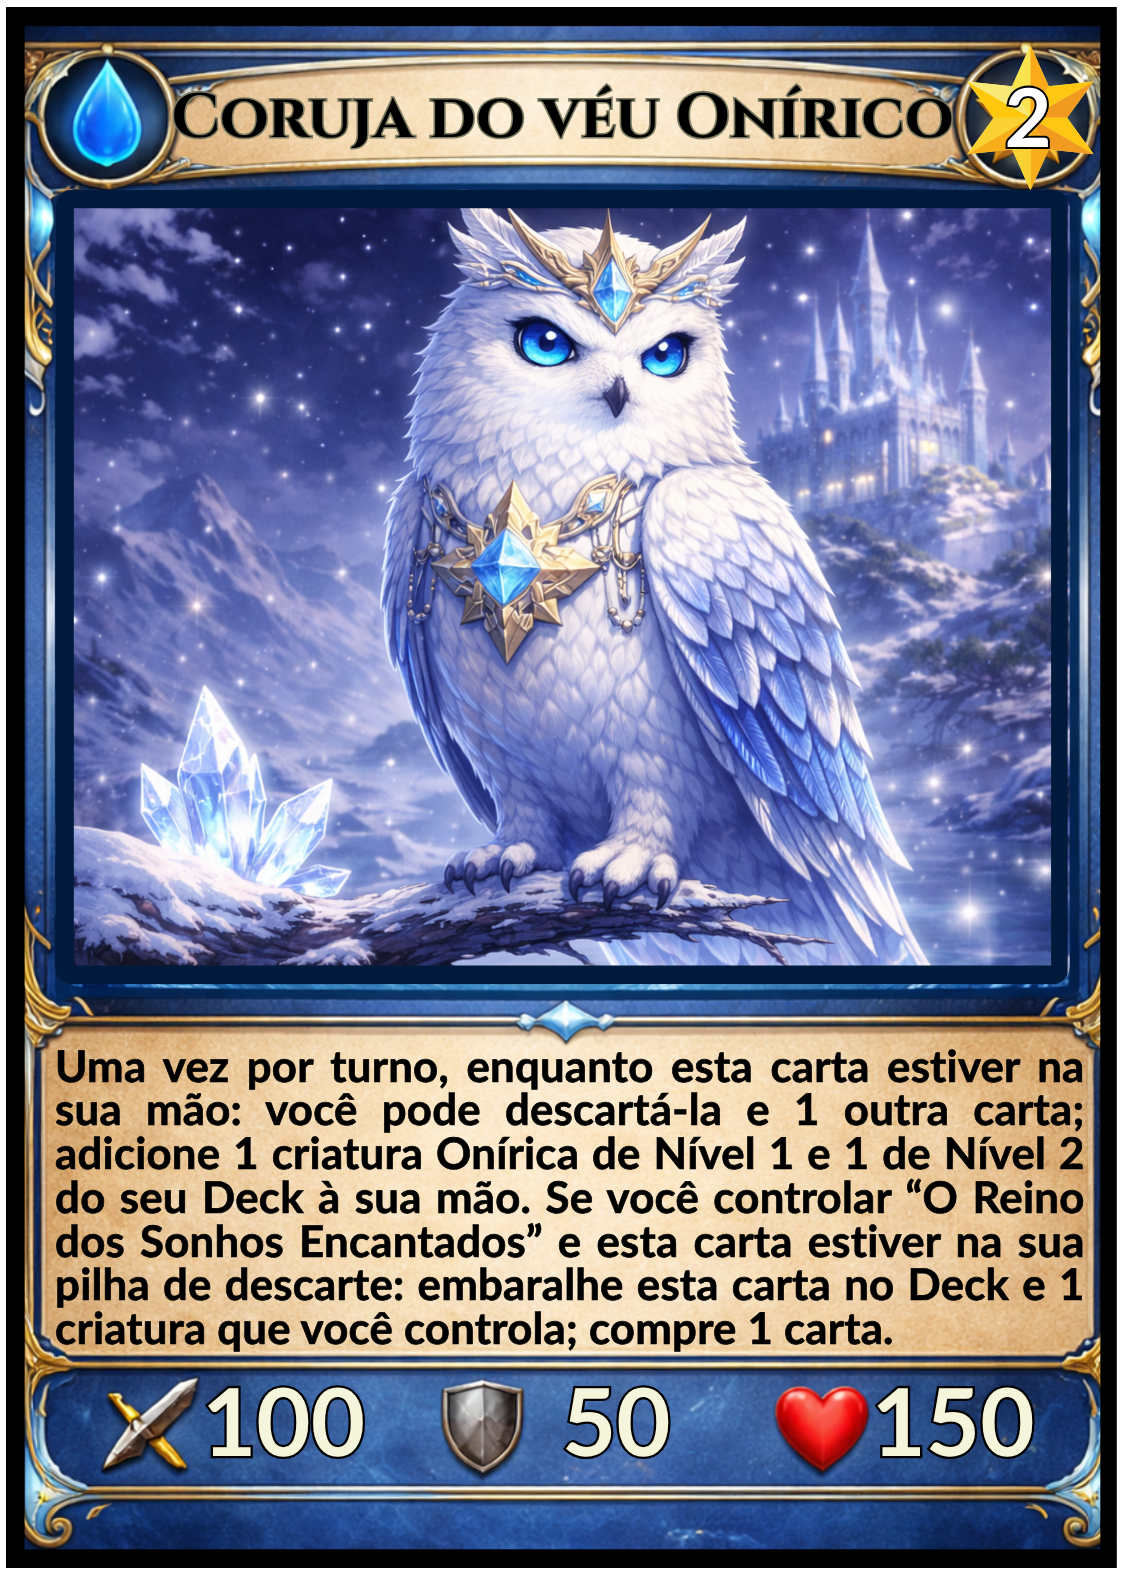
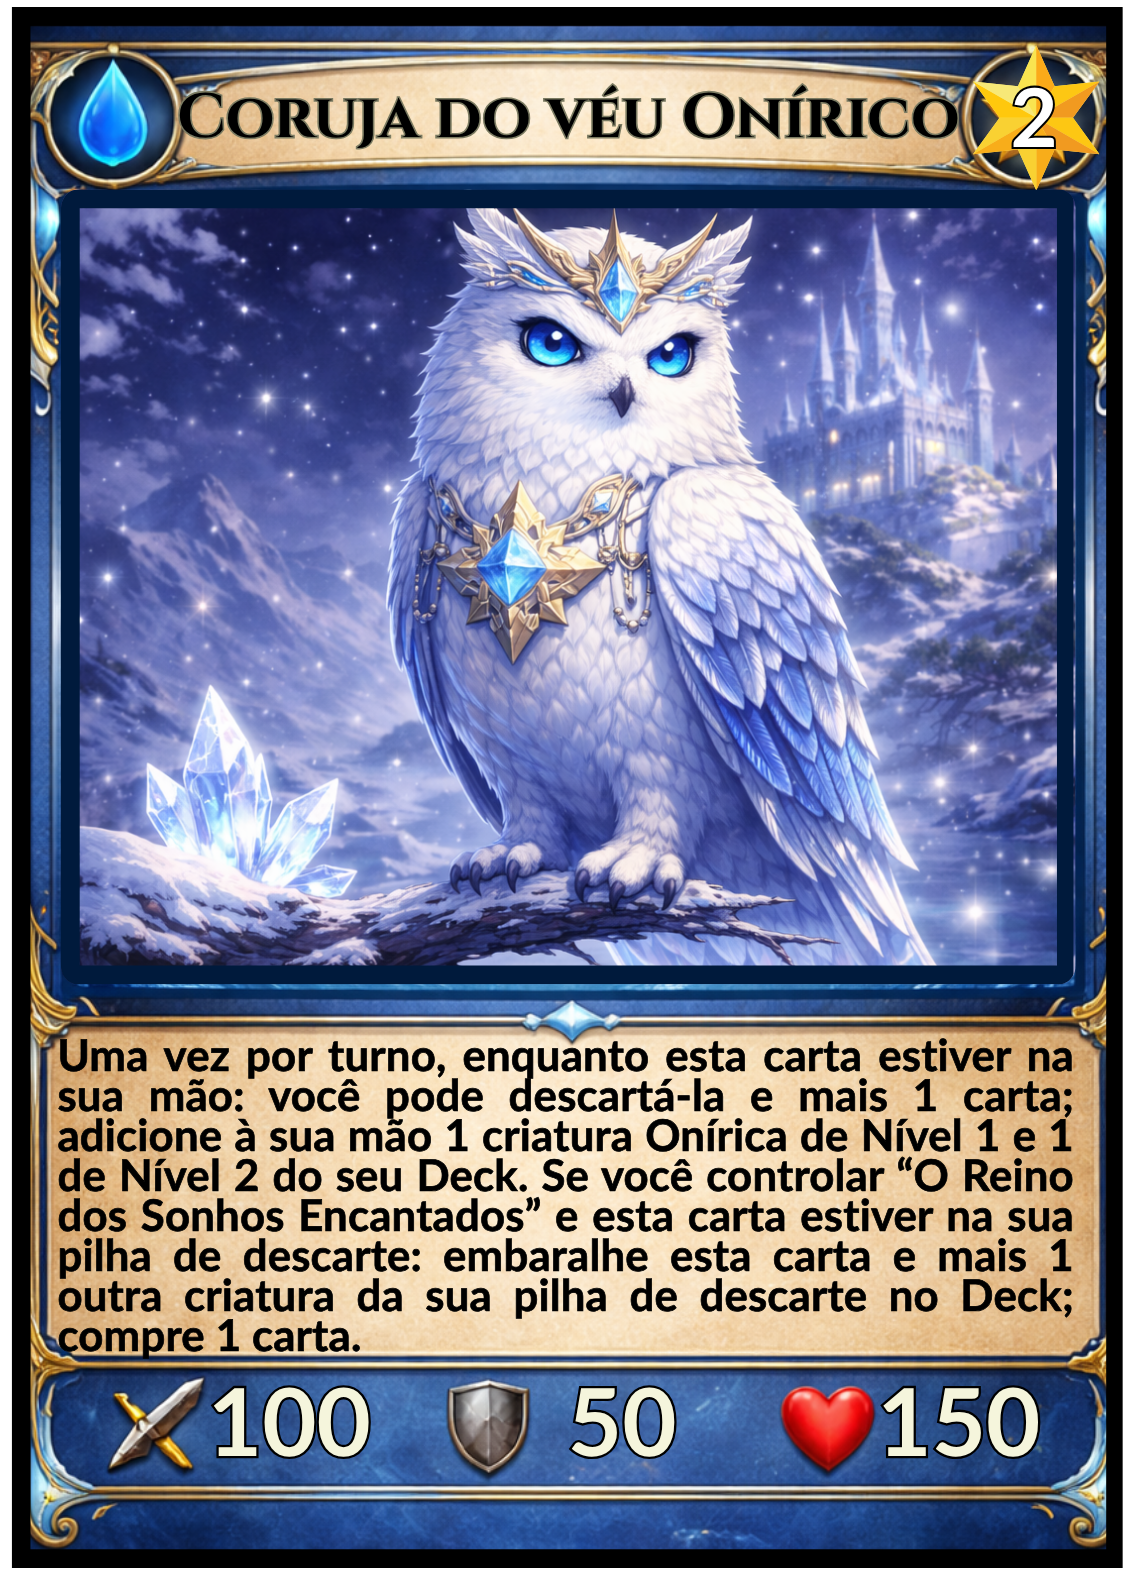
Atualizando o efeito das cartas e ajustando o tempo de animação

diff --git a/app.js b/app.js
@@ -3,6 +3,27 @@ const socket = io();
 let myRole = null;
 let serverMatchState = null;
 let selectedDeck = null;
+
+const audioManager = {
+  sounds: {
+    clique: "assets/sounds/clique.mp3",
+    embaralhamento: "assets/sounds/embaralhamento.mp3",
+    comprar: "assets/sounds/comprar.mp3",
+    revelar: "assets/sounds/revelar.mp3",
+    efeito: "assets/sounds/efeito.mp3",
+    ataque: "assets/sounds/ataque.mp3",
+    cartaZona: "assets/sounds/carta-zona.mp3",
+    criaturaInvocacao: "assets/sounds/criatura-invocacao.mp3",
+    magiaAtivacao: "assets/sounds/magia-ativacao.mp3"
+  },
+  play(name) {
+    if (this.sounds[name]) {
+      const audio = new Audio(this.sounds[name]);
+      audio.play().catch(err => console.warn("Áudio bloqueado pelo navegador:", err));
+    }
+  }
+};
+
 let errorToastTimeout = null;
 let chatMessagesState = [];
 let manualBoardZoom = 1;
@@ -1612,6 +1633,22 @@ function buildAnimationCardElement(card, hidden) {
 function animateCardTravel(payload) {
   if (!payload) return;
 
+  const isCreatureZone = payload.toZone === "creature1" || payload.toZone === "creature2" || payload.toZone === "creature3" || payload.toZone === "mythic";
+  const isCreatureCard = payload.card && (payload.card.type === "creature" || payload.card.type === "mythic");
+
+  const isMagicZone = payload.toZone === "magic1" || payload.toZone === "magic2" || payload.toZone === "magic3" || payload.toZone === "magic4" || payload.toZone === "field";
+  const isMagicCard = payload.card && payload.card.type === "spell";
+
+  if (payload.kind === "draw" || payload.toZone === "hand") {
+    audioManager.play("comprar");
+  } else if (isCreatureCard && isCreatureZone) {
+    audioManager.play("criaturaInvocacao");
+  } else if (isMagicCard && isMagicZone) {
+    audioManager.play("magiaAtivacao");
+  } else {
+    audioManager.play("cartaZona");
+  }
+
   const boardScreen = document.getElementById("boardScreen");
   if (!boardScreen || !boardScreen.classList.contains("active")) return;
 
@@ -1681,17 +1718,66 @@ function animateCardTravel(payload) {
   }, 420);
 }
 
-function animateEffectByCardId(cardId) {
-  const cardEl = document.getElementById(`card-${cardId}`);
-  if (!cardEl) return;
+function animateEffectByCardId(cardId, serverCard) {
+  audioManager.play("efeito");
 
-  cardEl.classList.remove("effect-activated");
-  void cardEl.offsetWidth;
-  cardEl.classList.add("effect-activated");
+  const cardEl = document.getElementById(`card-${cardId}`);
+  if (cardEl) {
+    cardEl.classList.remove("effect-activated");
+    void cardEl.offsetWidth;
+    cardEl.classList.add("effect-activated");
+
+    setTimeout(() => {
+      cardEl.classList.remove("effect-activated");
+    }, 650);
+  }
+
+  let localCard = null;
+  if (serverCard) {
+    localCard = hydrateServerCard(serverCard, serverCard.ownerRole || "p1");
+  } else {
+    const loc = findCardLocation(cardId);
+    if (loc) localCard = loc.card;
+  }
+
+  if (localCard && localCard.image) {
+    showLargeEffectImage(localCard.image);
+  }
+}
+
+function showLargeEffectImage(imageSrc) {
+  const existing = document.getElementById("effectLargeOverlay");
+  if (existing) existing.remove();
+
+  const overlay = document.createElement("div");
+  overlay.id = "effectLargeOverlay";
+  overlay.style.position = "fixed";
+  overlay.style.inset = "0";
+  overlay.style.zIndex = "9999";
+  overlay.style.display = "flex";
+  overlay.style.alignItems = "center";
+  overlay.style.justifyContent = "center";
+  overlay.style.pointerEvents = "none";
+  overlay.style.background = "radial-gradient(circle, rgba(0,0,0,0.7) 0%, rgba(0,0,0,0) 75%)";
+  overlay.style.animation = "effectOverlayFade 1s ease-out forwards";
+
+  const img = document.createElement("img");
+  img.src = imageSrc;
+  img.style.height = "75vh";
+  img.style.maxWidth = "90vw";
+  img.style.objectFit = "contain";
+  img.style.borderRadius = "18px";
+  img.style.boxShadow = "0 0 60px rgba(255, 209, 102, 0.6), 0 0 20px rgba(255, 255, 255, 0.3)";
+  img.style.animation = "effectCardPop 0.4s cubic-bezier(0.175, 0.885, 0.32, 1.275) forwards";
+
+  overlay.appendChild(img);
+  document.body.appendChild(overlay);
 
   setTimeout(() => {
-    cardEl.classList.remove("effect-activated");
-  }, 650);
+    if (overlay.parentNode) {
+      overlay.remove();
+    }
+  }, 1000);
 }
 
 function animateAttackFromPayload(payload) {
@@ -2203,11 +2289,17 @@ menu.appendChild(
 );
 if (!PILE_CONTAINERS.includes(containerKey) && containerKey !== "hand") {
   menu.appendChild(
-    menuButton("Adicionar marcador", () => changeCardMarkers(cardId, playerKey, containerKey, 1))
+    menuButton("Adicionar marcador", () => {
+      audioManager.play("clique");
+      changeCardMarkers(cardId, playerKey, containerKey, 1);
+    })
   );
 
   menu.appendChild(
-    menuButton("Remover marcador", () => changeCardMarkers(cardId, playerKey, containerKey, -1))
+    menuButton("Remover marcador", () => {
+      audioManager.play("clique");
+      changeCardMarkers(cardId, playerKey, containerKey, -1);
+    })
   );
 }
 // resto
@@ -2226,12 +2318,6 @@ menu.appendChild(
 menu.appendChild(
   menuButton("Enviar ao descarte", () =>
     moveCard(cardId, playerKey, containerKey, myRole, "discardPile")
-  )
-);
-
-menu.appendChild(
-  menuButton("Colocar em zona...", () =>
-    openZoneChoiceMenu(x + 210, y, cardId, playerKey, containerKey)
   )
 );
   }
@@ -2435,6 +2521,8 @@ function shuffleHand(playerKey) {
 }
 
 function animateShuffle(element) {
+  audioManager.play("embaralhamento");
+
   element.classList.remove("shuffling");
   void element.offsetWidth;
   element.classList.add("shuffling");
@@ -2444,6 +2532,8 @@ function animateShuffle(element) {
   }, 600);
 }
 function animatePileShuffle(playerKey, zoneKey) {
+  audioManager.play("embaralhamento");
+
   const uiZone = serverZoneToUiZone(zoneKey);
   const pileZone = document.getElementById(`zone-${playerKey}-${uiZone}`);
   if (!pileZone) return;
@@ -2575,6 +2665,8 @@ function toggleFaceDown(cardId, playerKey, containerKey) {
   const card = findCardInContainer(playerKey, containerKey, cardId);
   if (!card) return;
 
+  audioManager.play("revelar");
+
   socket.emit("setCardFaceDown", {
     roomId,
     playerKey,
@@ -2626,7 +2718,9 @@ function canUseEffect(cardId, playerKey, containerKey) {
     "magic1",
     "magic2",
     "magic3",
-    "magic4"
+    "magic4",
+    "hand",
+    "discardPile"
   ];
 
   if (!allowedZones.includes(containerKey)) return false;
@@ -2678,6 +2772,8 @@ function resolveAttack(targetPlayerKey, targetContainerKey) {
 }
 
 function animateAttackArrow(sourceEl, targetEl) {
+  audioManager.play("ataque");
+
   clearAttackArrow();
 
   const svg = document.getElementById("attackLayer");
@@ -2988,8 +3084,8 @@ socket.on("visualAction", (payload) => {
   animateCardTravel(payload);
 });
 
-socket.on("effectAnimation", ({ cardId }) => {
-  animateEffectByCardId(cardId);
+socket.on("effectAnimation", ({ cardId, card }) => {
+  animateEffectByCardId(cardId, card);
 });
 
 socket.on("attackAnimation", (payload) => {
@@ -3026,6 +3122,14 @@ socket.on("goToDeckSelection", () => {
 /* DOM EVENTS */
 
 document.addEventListener("click", (event) => {
+  const isButton = event.target.tagName === "BUTTON" || event.target.closest("button");
+  const isCardMenu = event.target.closest("#contextMenu");
+  const isCard = event.target.closest(".card");
+
+  if (isButton && !isCardMenu && !isCard) {
+    audioManager.play("clique");
+  }
+
   const menu = document.getElementById("contextMenu");
   if (menu && !menu.contains(event.target)) {
     closeContextMenu();

diff --git a/style.css b/style.css
@@ -1233,6 +1233,18 @@ input {
   }
 }
 
+@keyframes effectOverlayFade {
+  0% { opacity: 0; }
+  10% { opacity: 1; }
+  85% { opacity: 1; }
+  100% { opacity: 0; }
+}
+
+@keyframes effectCardPop {
+  0% { transform: scale(0.6) translateY(20px); opacity: 0; }
+  100% { transform: scale(1) translateY(0); opacity: 1; }
+}
+
 .marker-badge {
   position: absolute;
   top: 6px;

diff --git a/server/server.js b/server/server.js
@@ -1046,7 +1046,8 @@ emitRoomState(roomId, room);
     io.to(roomId).emit("effectAnimation", {
       playerKey,
       zoneKey,
-      cardId
+      cardId,
+      card: serializeCard(card)
     });
   });
     socket.on(